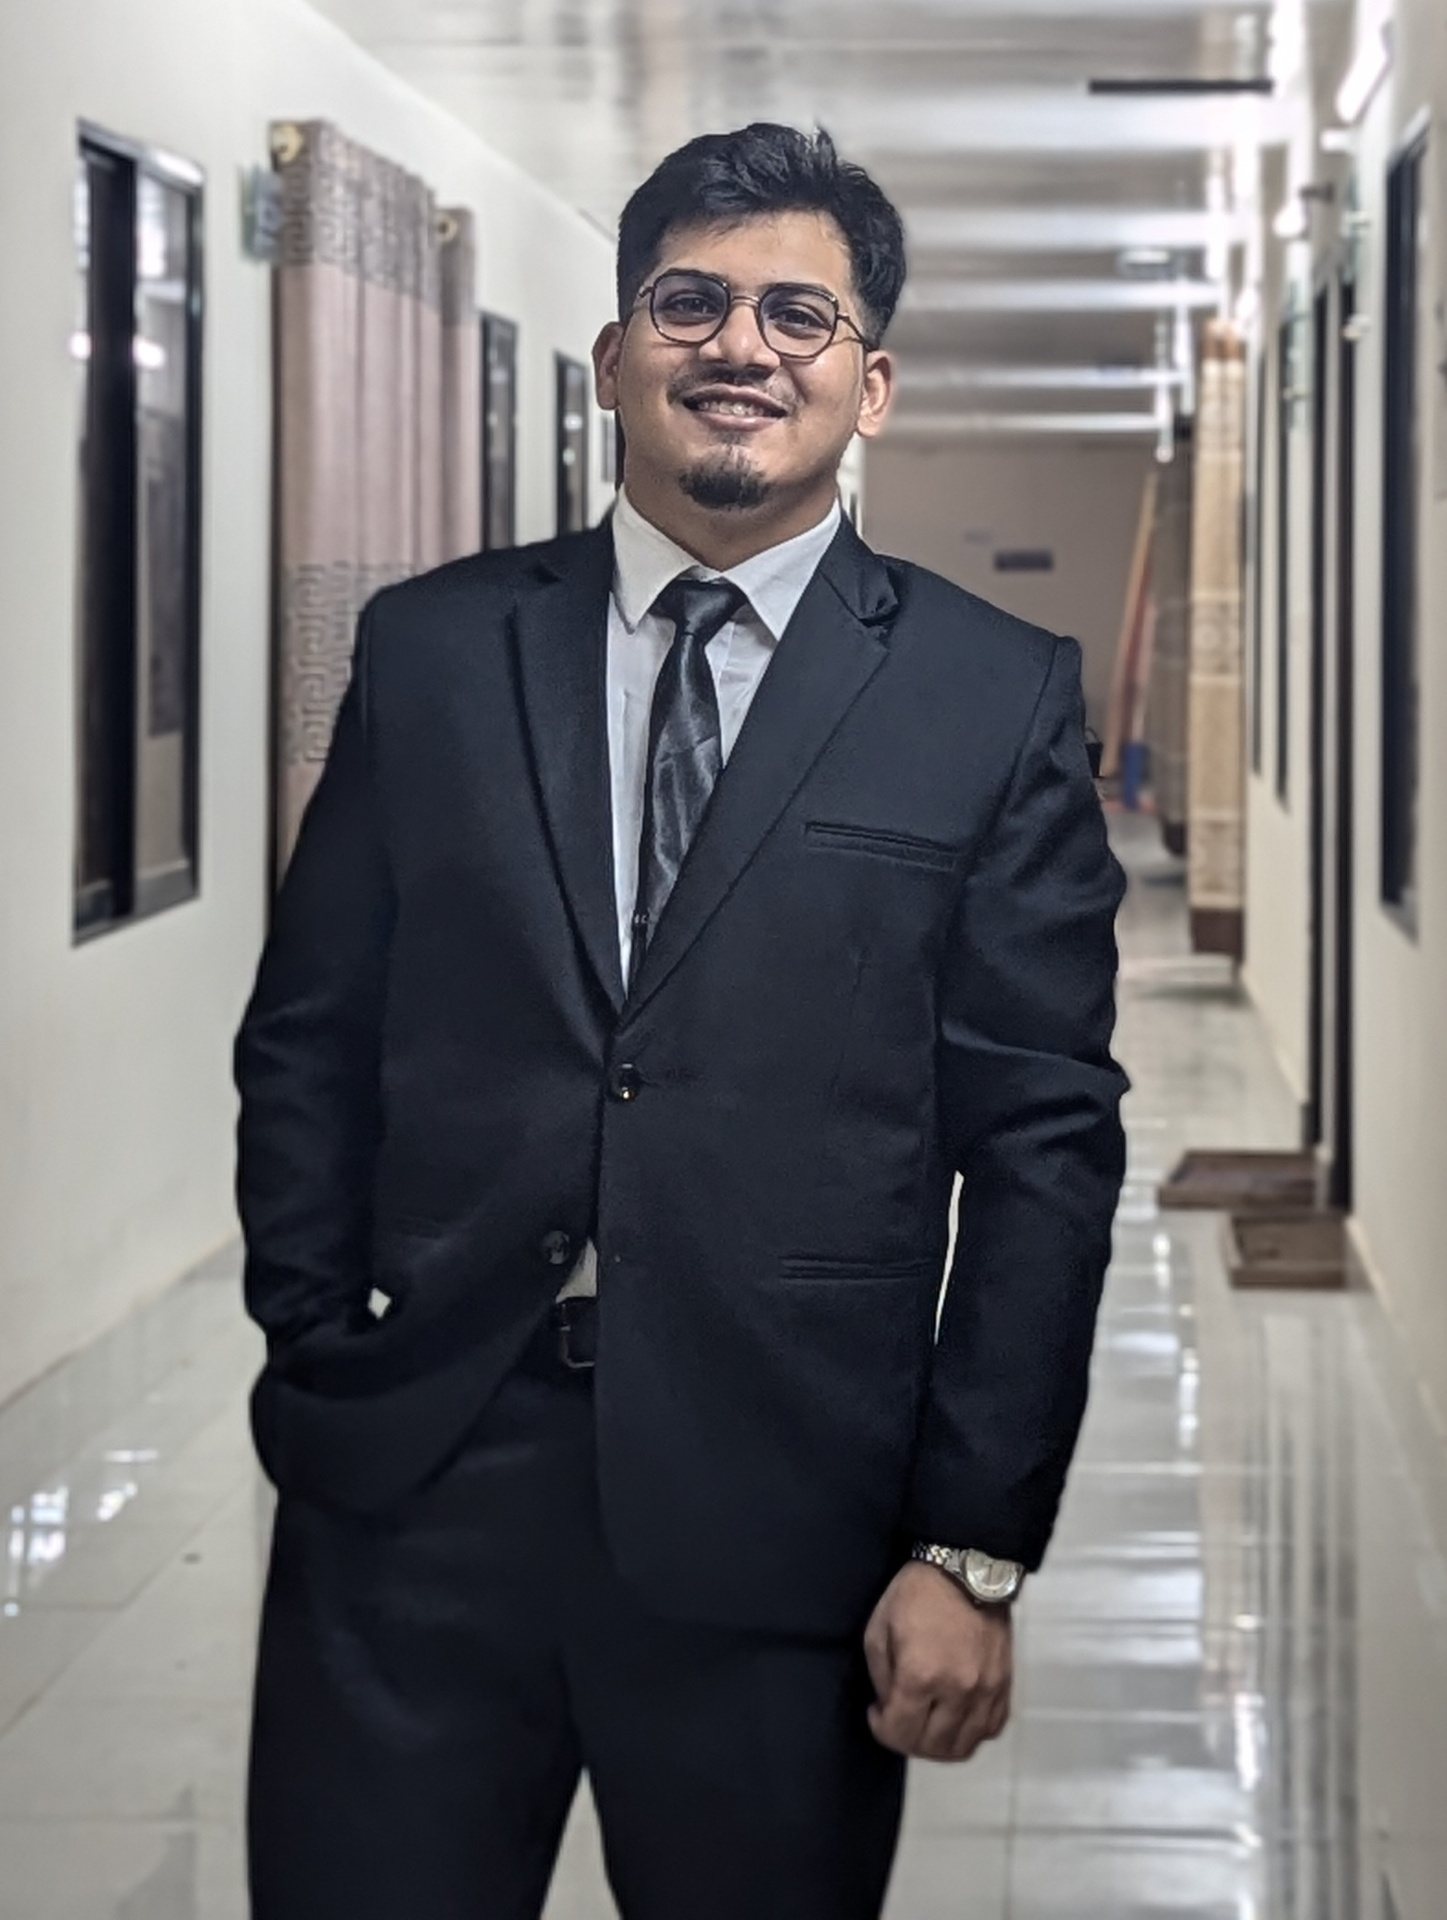
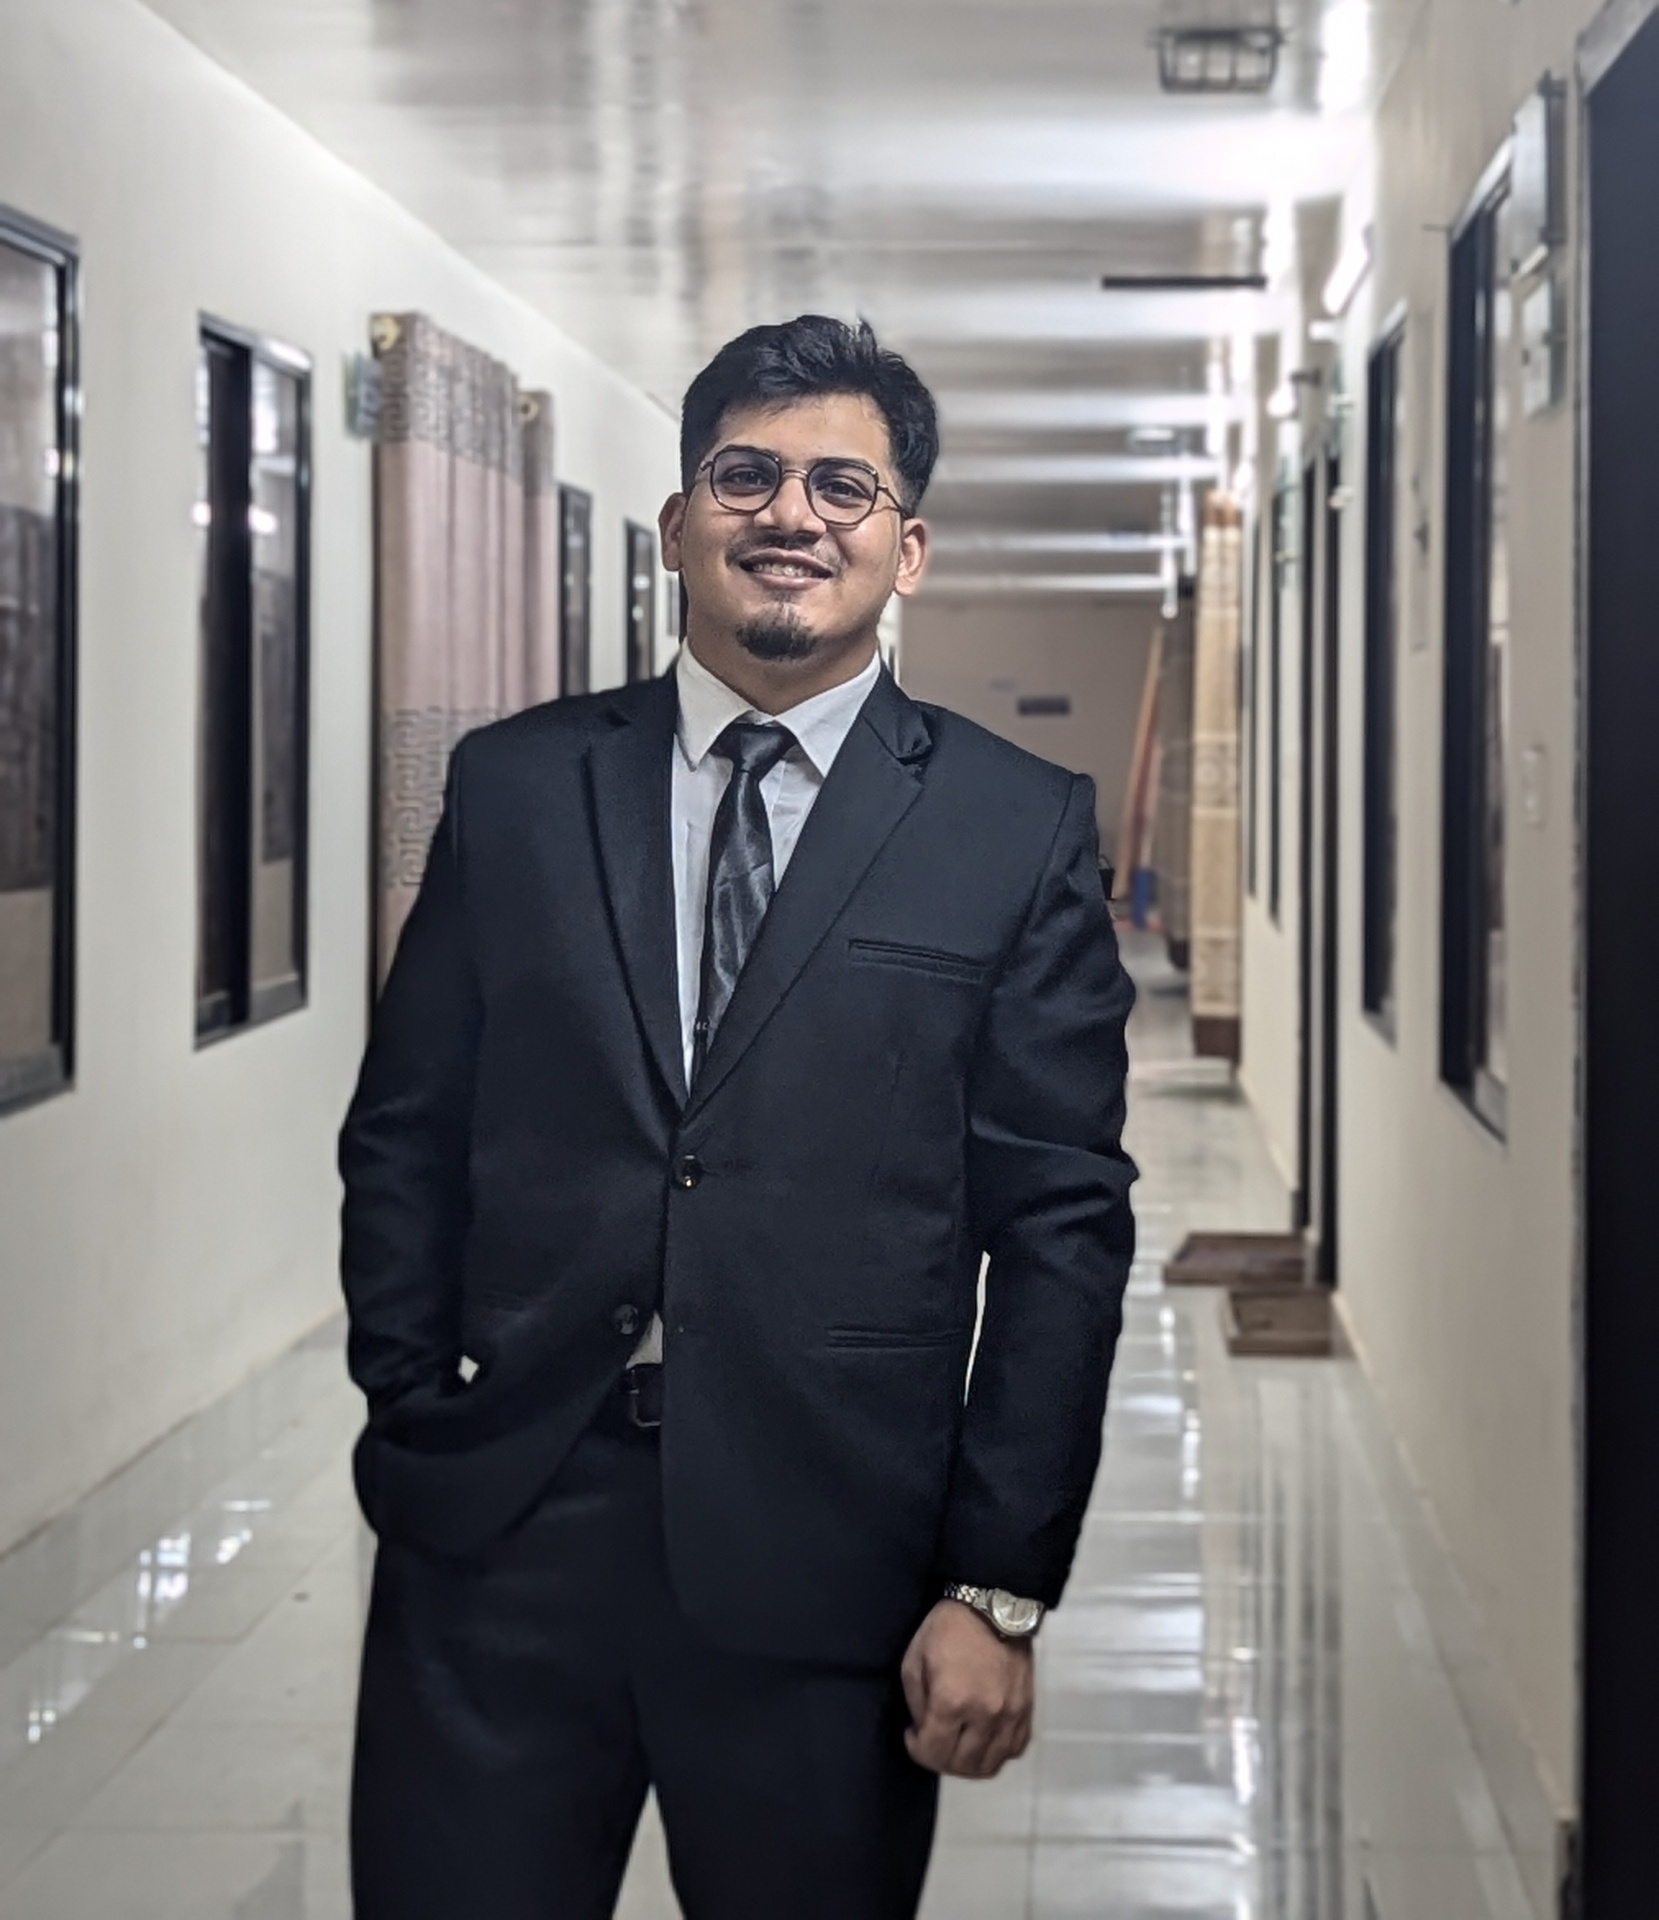
Changes

diff --git a/src/components/HeroSection.tsx b/src/components/HeroSection.tsx
@@ -1,5 +1,5 @@
 import { Download, ChevronDown } from "lucide-react";
-import profileImage from "@/assets/profile-nobg.png";
+import profileImage from "@/assets/profile-formal.jpg";
 import { Button } from "@/components/ui/button";
 import { useState, useEffect } from "react";
 import { removeBackground, loadImage } from "@/utils/backgroundRemoval";
@@ -46,7 +46,7 @@ const HeroSection = () => {
       <div className="container mx-auto text-center">
         {/* Profile Image */}
         <div className="relative mb-8">
-          <div className="w-72 h-72 mx-auto relative group">
+          <div className="w-60 h-60 mx-auto relative group">
             <div className="absolute inset-0 rounded-full bg-gradient-to-r from-portfolio-cyan to-portfolio-cyan-glow opacity-40 blur-2xl group-hover:opacity-60 transition-opacity duration-300"></div>
             <div className="w-full h-full rounded-full overflow-hidden border-4 border-portfolio-cyan relative z-10 bg-black">
               <img 
